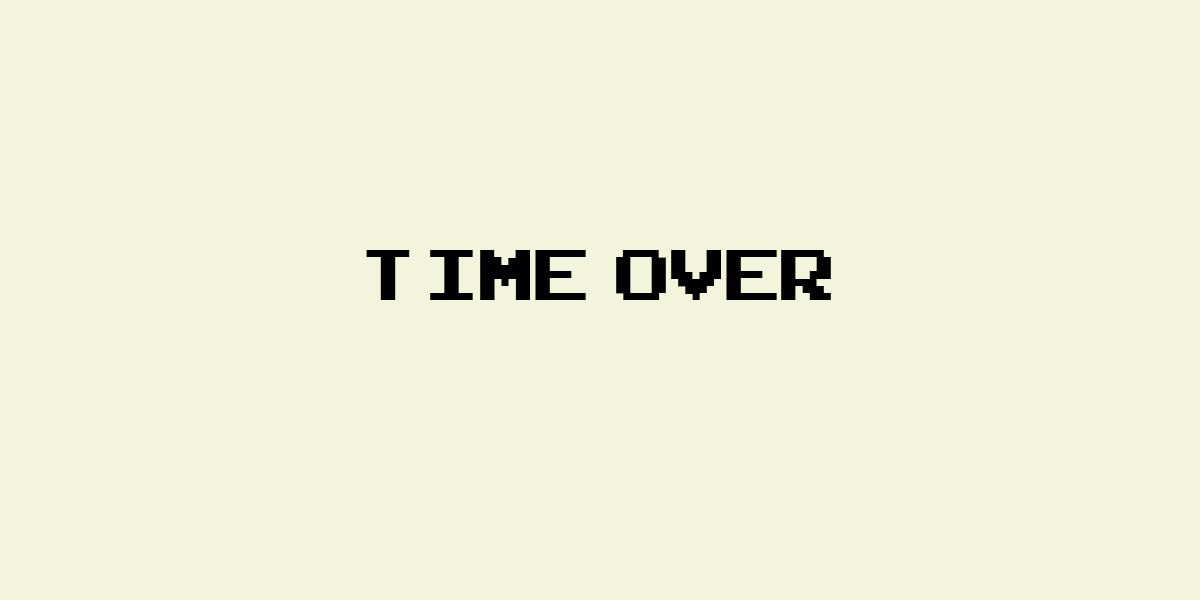
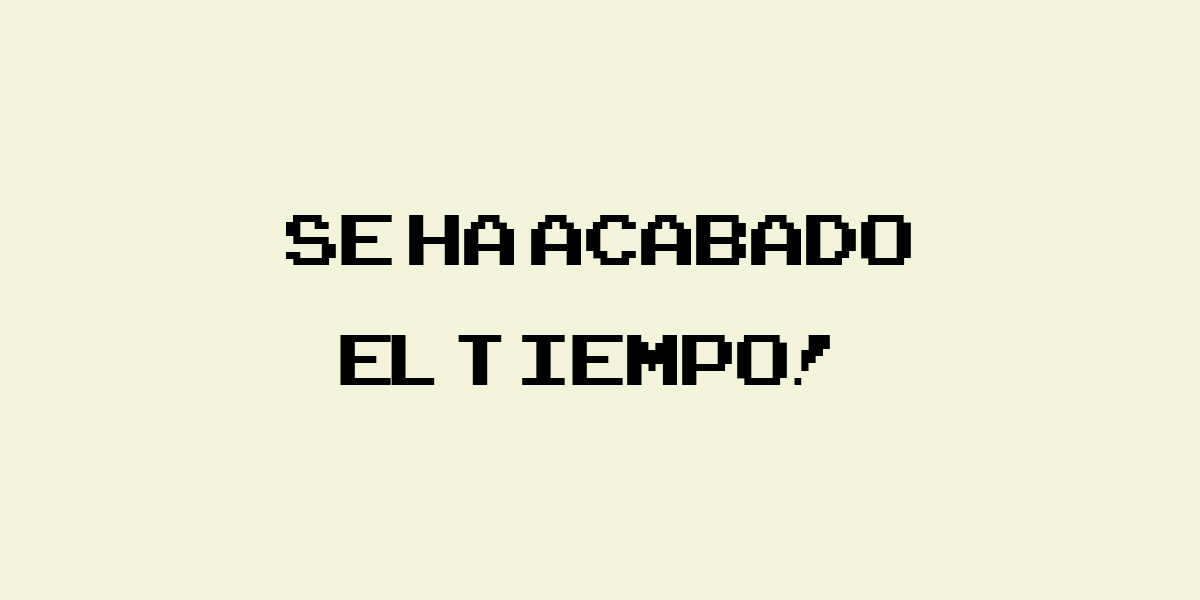
Finalización de la actividad por match de audio (prob. 0.7)

Changed region(s): [[0.2158, 0.36, 0.7708, 0.51], [0.37, 0.54, 0.7092, 0.66], [0.2775, 0.54, 0.37, 0.66]]

diff --git a/js/game/record/recorder.js b/js/game/record/recorder.js
@@ -6,6 +6,9 @@ function Recorder(iconPosX, iconPosY)
 	var micro_acquired_evt = evt_mng.create('micro_acquired');
 	var done_evt = evt_mng.create('record_finished');
 	var record_timer_stopped_evt = evt_mng.create('record_timer_stopped_event');
+	var voice_match_evt = evt_mng.create('voice_match_event');
+
+	var voice_detected_for = 0;
 
 	var icon = game.add.sprite(iconPosX, iconPosY, MICRO_NAME, MICRO_OFF);
 	fade_pulse(icon);
@@ -18,6 +21,11 @@ function Recorder(iconPosX, iconPosY)
 	this.listen_to_done_event = function(action)
 	{
 		evt_mng.listen(done_evt, action);
+	}
+
+	this.listen_to_voice_match_event = function(action)
+	{
+		evt_mng.listen(voice_match_evt, action);
 	}
 
 	this.get_user_media = function()
@@ -79,7 +87,7 @@ function Recorder(iconPosX, iconPosY)
 	{
 		timer = new Timer();
 		timer.listen_to_timer_stopped_event('recorder', function (e) { sample_done(); });
-		timer.start(TIME_AVAILABLE, false);
+		timer.start(S1_TOTAL_TIME, false);
 	}
 
 	var sample_rate = null;
@@ -151,11 +159,11 @@ function Recorder(iconPosX, iconPosY)
 
         var average = values / length;
 
-        if(average > 10)
+        if(average > 30)
         {
         	voice_detected();
         }
-        else if(average <= 10 )
+        else
         {
         	voice_not_detected();
         }
@@ -163,12 +171,35 @@ function Recorder(iconPosX, iconPosY)
 
 	function voice_detected()
 	{
+		voice_detected_for += 1;
+
 		icon.frameName = MICRO_ON_DETECTION;
 	}
 
 	function voice_not_detected()
 	{
+		if(voice_detected_for >= 30)
+		{
+			voice_detected_for = 0;
+			try_match();
+		}
+
 		icon.frameName = MICRO_ON_NO_DETECTION; 
+	}
+
+	function try_match()
+	{
+		var matched = Math.floor((Math.random() * 10) + 1);
+
+		if(matched >= 7)
+		{
+			evt_mng.dispatch(voice_match_evt);
+		}
+		else
+		{
+			console.log('could not match' + matched);
+		}
+		
 	}
 	////VOICE RECOGNITION
 

diff --git a/js/game/timers/timer.js b/js/game/timers/timer.js
@@ -77,20 +77,21 @@ function Timer(xP = 0, yP = 0)
 
 	function updateTimer()
 	{
-		launch_advices();
-
 		if(time_remaining > 0)
 		{
 			time_remaining -= 1;
 
-			if(visible) change_loading_bar_width(interval);
+			if(visible) 
+			{
+				launch_advices();
+				change_loading_bar_width(interval);
+				loading_bar_text.text = 'Quedan ' + time_remaining + ' segundos.';
+			}
 		}
 		else
 		{
 			reset();
 		}
-
-		if(visible) loading_bar_text.text = 'Quedan ' + time_remaining + ' segundos.';
 	}
 
 	var half_time_reached = false;
@@ -100,7 +101,7 @@ function Timer(xP = 0, yP = 0)
 	{
 		if(visible)
 		{
-			if((time_remaining - 1 <= (total_time / 2)) && !half_time_reached)
+			if((time_remaining <= (total_time / 2)) && !half_time_reached)
 			{
 				half_time_reached = true;
 
@@ -111,18 +112,18 @@ function Timer(xP = 0, yP = 0)
 				fade_pulse(loading_bar_text, 500);
 			}
 			
-			if((time_remaining - 1  <= (total_time / 4)) && !quarter_time_reached)
+			if((time_remaining  <= (total_time / 4)) && !quarter_time_reached)
 			{
 				quarter_time_reached = true;
 				change_loading_bar_color('#dd0000');
 			}
 
-			if(time_remaining == 4)
+			if(time_remaining == 3)
 			{
 				run_countdown();
 			}
 
-			if(time_remaining == 1)
+			if(time_remaining == 0)
 			{
 				game.add.sprite(0, 0, 'time_over');
 			}

diff --git a/js/game/stages/Stage1/level2.js b/js/game/stages/Stage1/level2.js
@@ -32,7 +32,7 @@ function Level2()
 		game.add.sprite(BACKGROUND_POSITION_X, BACKGROUND_POSITION_Y, BACKGROUND_NAME, BACKGROUND_BLACKBOARD_NAME);
 
 		dialog_bubble = game.add.sprite(SMALL_DIALOG_POSITION_X, SMALL_DIALOG_POSITION_Y, DIALOG_NAME, SMALL_DIALOG_NAME);
-		dialog_bubble.content = game.add.bitmapText(SMALL_DIALOG_CONTENT_X, SMALL_DIALOG_CONTENT_Y, DEFAULT_DIALOG_FONT, '¡Se ha acabado el tiempo!', DEFAULT_FONT_SIZE);
+		dialog_bubble.content = game.add.bitmapText(SMALL_DIALOG_CONTENT_X, SMALL_DIALOG_CONTENT_Y, DEFAULT_DIALOG_FONT, 'Hemos terminado.', DEFAULT_FONT_SIZE);
 		fade_pulse(dialog_bubble.content);
 
 		make_button(SMALL_DIALOG_CONTENT_X + 400, SMALL_DIALOG_CONTENT_Y - 5, 'Exit', activity_finished);

diff --git a/js/game/stages/Stage1/level1.js b/js/game/stages/Stage1/level1.js
@@ -83,12 +83,21 @@ function Level1()
 
 		RECORDER_INSTANCE.set_icon_at(S1_MICRO_POSITION_X, S1_MICRO_POSITION_Y);
 		RECORDER_INSTANCE.listen_to_done_event(function (e) { record_finished(); });
+		RECORDER_INSTANCE.listen_to_voice_match_event(function (e) { match(); });
 		RECORDER_INSTANCE.start_recording();
 	}
 
 	function record_finished()
 	{
 		console.log('record finished');
+	}
+
+	function match()
+	{
+		game.add.sprite(0, 0, 'match');
+
+		timer.stop();
+		timer.start(2, false);
 	}
 
 	function activity_finished()

diff --git a/js/game/stages/Stage1/main.js b/js/game/stages/Stage1/main.js
@@ -9,6 +9,8 @@ function Stage1()
 	function preload()
 	{
 		game.load.image('time_over', 'assets/backgrounds/split/time_over.png');
+		game.load.image('match', 'assets/backgrounds/split/match.png');
+
 		game.load.atlas(BACKGROUND_NAME, BACKGROUND_PATH, BACKGROUND_ATLAS);
 		game.load.atlas(DIALOG_NAME, DIALOG_PATH, DIALOG_ATLAS);
 		game.load.atlas(TEACHER_NAME, TEACHER_PATH, TEACHER_ATLAS);

diff --git a/js/game/timers/countdown.js b/js/game/timers/countdown.js
@@ -29,6 +29,14 @@ function CountDown(visibleP = true)
 		update();
 	}
 
+	this.stop = function()
+	{
+		timer.stop();
+		countdown.destroy();
+		evt_mng.dispatch(done_evt);
+		evt_mng.remove(done_evt);
+	}
+
 	function update()
 	{
 		if(countdown == null)

diff --git a/js/game/record/config.js b/js/game/record/config.js
@@ -1,2 +1,1 @@
 DEFAULT_BUFFER_SIZE = 2048;
-TIME_AVAILABLE  = 3;
